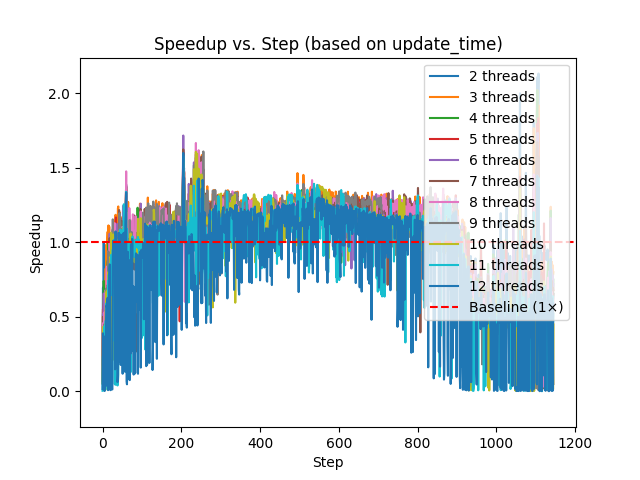
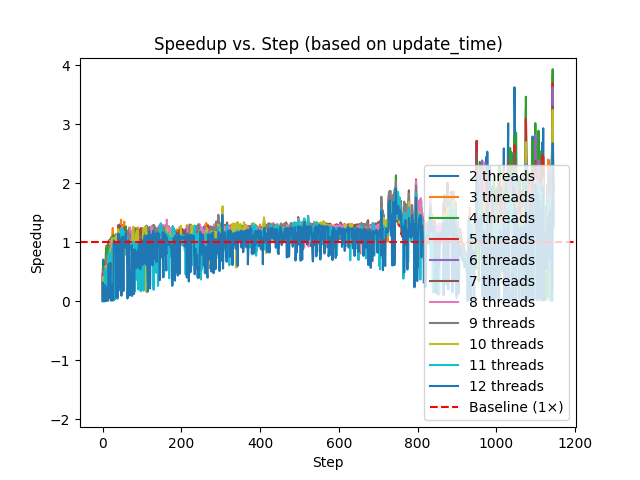
sync

diff --git a/projet/model.cpp b/projet/model.cpp
@@ -106,7 +106,7 @@ bool Model::update()
         auto& local_updates = all_local_updates[thread_id];
         local_updates.reserve(front_iters.size() * 4);
         
-        #pragma omp for schedule(dynamic, 32)
+        #pragma omp for schedule(dynamic, 64)
         for (std::size_t i = 0; i < front_iters.size(); i++)
         {
             // Directly get the key and value from the iterator.
